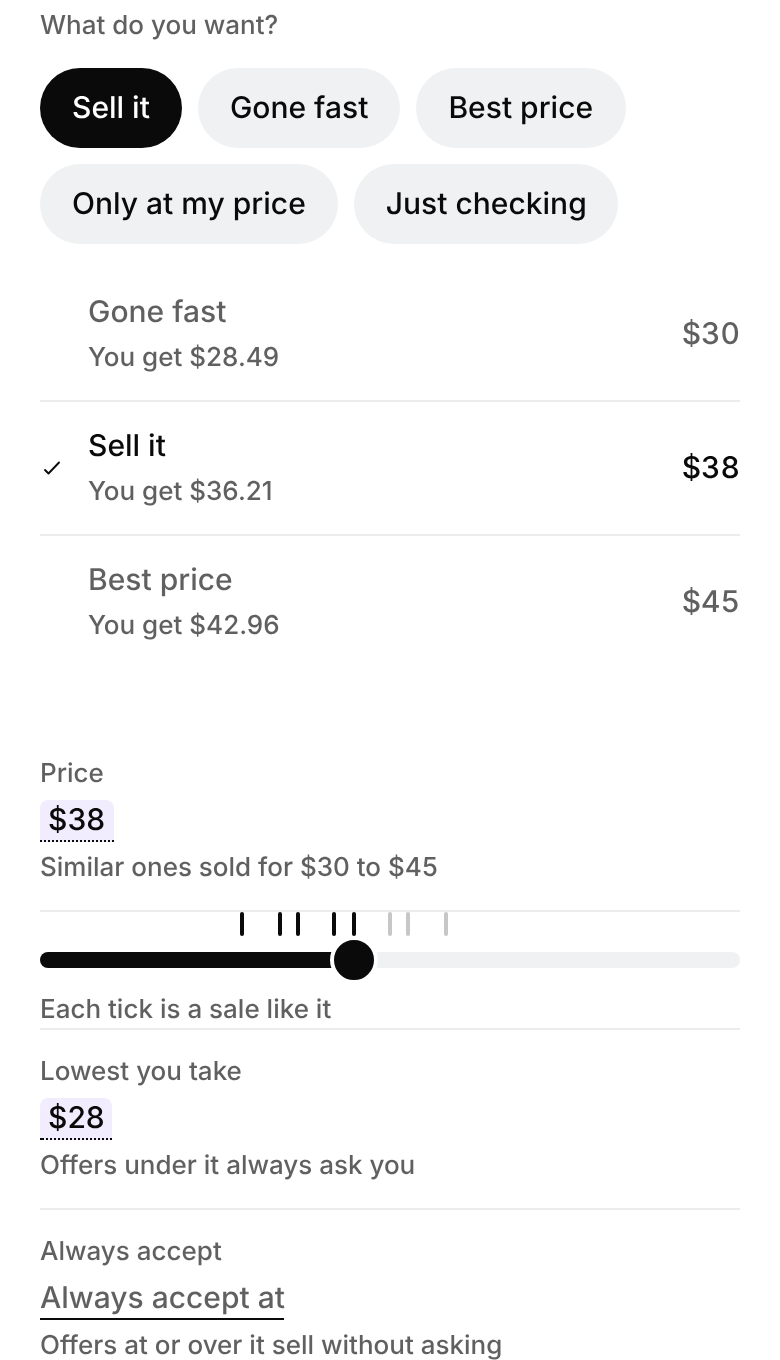
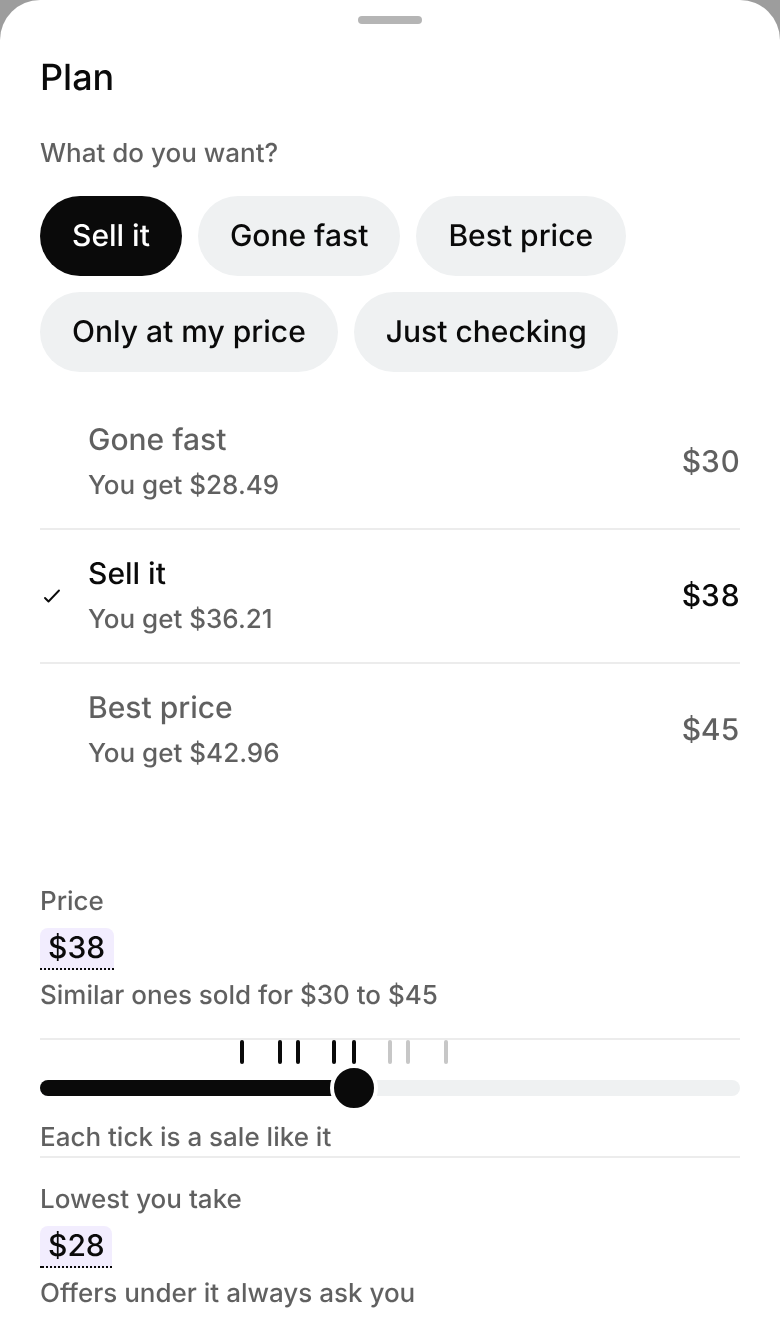
fix(web): section 2 lands clear of the header, and each app screen is cut clean
- "See how it works" left the section 2 heading behind the fixed header; every
  linked section now starts under it, and the hero check clicks the button and
  measures the gap, writing hero/out/how-<width>.jpg as the picture of section 2.
- app-shots.mjs counts only text a person can see when it places a cut, keeps
  the line a step's caption talks about whole in the frame (keep), and can start
  a shot at the top edge of the sheet that holds it (from: "sheet"), so nothing
  behind the price sheet shows. The three screens are 664 tall, where the sheet's
  bottom falls between two lines.

Rests-on: brand/explore/web-home/hero/actions.md; product/words.md (10:24, 10:32); brand/ledger.md L61

Claude-Session: https://claude.ai/code/session_01M2ErbneDU6egHCbpuKHyWU

diff --git a/brand/explore/web-home/hero/index.html b/brand/explore/web-home/hero/index.html
@@ -54,11 +54,11 @@
     <div class="wrap">
       <h2 class="section-t center">From one photo to sold</h2>
       <ol class="steps3" role="list">
-        <li><figure class="screen"><img src="../app/step-1-photo.png" alt="The secondhand camera asking for the whole front of a jacket" width="390" height="680" loading="lazy"></figure>
+        <li><figure class="screen"><img src="../app/step-1-photo.png" alt="The secondhand camera asking for the whole front of a jacket" width="390" height="664" loading="lazy"></figure>
           <h3 class="feature-t"><span class="n">1</span>Take one photo</h3><p>The camera says what to frame.</p></li>
-        <li><figure class="screen"><img src="../app/step-2-price.png" alt="The plan for a gold tee: $38, set from similar ones that sold for $30 to $45, each tick a sale" width="390" height="680" loading="lazy"></figure>
+        <li><figure class="screen"><img src="../app/step-2-price.png" alt="The plan for a gold tee: $38, set from similar ones that sold for $30 to $45, each tick a sale" width="390" height="664" loading="lazy"></figure>
           <h3 class="feature-t"><span class="n">2</span>Check the price</h3><p>Set from what the same thing sold for. Each tick is a sale.</p></li>
-        <li><figure class="screen"><img src="../app/step-3-sold.png" alt="The tee sold on Depop for $38, you get $36.21, and its eBay listing taken down" width="390" height="680" loading="lazy"></figure>
+        <li><figure class="screen"><img src="../app/step-3-sold.png" alt="The tee sold on Depop for $38, you get $36.21, and its eBay listing taken down" width="390" height="664" loading="lazy"></figure>
           <h3 class="feature-t"><span class="n">3</span>It sells once</h3><p>The other listings come down on their own.</p></li>
       </ol>
     </div>

diff --git a/brand/explore/web-home/hero/hero.css b/brand/explore/web-home/hero/hero.css
@@ -63,6 +63,8 @@ header { color: var(--ink); }
    around it: the screen is the product, a drawn phone is decoration. The step sits under its screen: its number in the
    second ink, its name, one line. On a phone the row scrolls sideways with each screen snapping to the edge, and runs
    out to the screen's edges (--bleed is the page margin turned back, so it stays on the spacing scale). */
+/* a section reached by a link starts under the fixed header, never behind it (actions.md: "See how it works") */
+section[id] { scroll-margin-top: var(--bar); }
 .how { background: var(--page); }
 .steps3 { display: grid; grid-template-columns: repeat(3, minmax(0, 1fr)); gap: var(--s-7); margin: var(--s-8) 0 0; padding: 0; list-style: none; }
 .steps3 li { display: grid; gap: var(--s-3); align-content: start; }

diff --git a/brand/explore/web-home/hero/actions.md b/brand/explore/web-home/hero/actions.md
@@ -26,7 +26,7 @@ One sentence and one action. A stranger learns what secondhand is from the line,
 | Press a pill or a page link | the pill | Scales to .97 on press-in, back on release | 150 ms | The app's press (Appllama: press feedback on press-in, 100 to 150 ms, scale .97) |
 | Hover the mark in the header | the right hand | Waves twice in three held poses | 480 ms, twice | L58. The only delight on the screen, and only when asked for |
 | Click the mark | the page | Back to the top | smooth, or a jump with Reduce Motion | The mark is home, as everywhere on the web |
-| Click "See how it works" | the page | Glides to section 2 | smooth, or a jump with Reduce Motion | The button's promise is kept on the same page, no load |
+| Click "See how it works" | the page | Glides to section 2, its heading clear of the header | smooth, or a jump with Reduce Motion | The button's promise is kept on the same page, no load |
 | Click a page link | that page | Opens it. How it works scrolls to section 2; the others open their page once it exists | none | A link that goes nowhere is a defect; until a page exists its link says so in the mock's notes |
 | Click Sign in | sign-in | Opens web sign-in once it exists | none | Gray, not black: one black pill per view (C4, L50) |
 | Tab through | each control in reading order | Mark, the four pages, Sign in, See how it works. Each shows the focus ring | at once | Keyboard users get the same order the eye takes |
